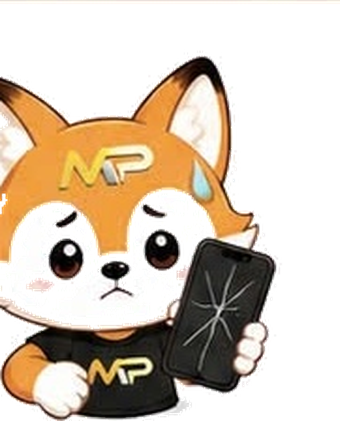
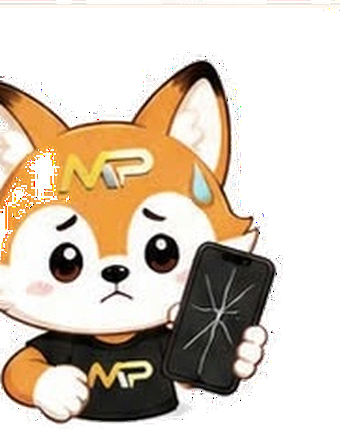
Bộ dáng đi 2 chiều thật + sửa lỗi mặt trong suốt ở 3 biểu cảm
- Thay 4 khung đi bộ dùng chung (lật ảnh giả) bằng 12 khung thật:
  6 khung đi trái (walk-left-1..6) + 6 khung đi phải (walk-right-1..6)
  cắt từ sprite sheet mới bro gửi. Bỏ hẳn cơ chế scaleX lật ảnh,
  giờ dùng đúng bộ khung theo hướng di chuyển thực tế.
- Sửa lỗi vui-ve.png, may-loi.png, san-sang-ho-tro.png bị thủng mặt
  (trong suốt thay vì trắng) do bước xoá nền trước đây rò rỉ qua khe
  hở nét vẽ — vá lại vùng bị lủng bằng màu trắng đúng vị trí.

diff --git a/index.html b/index.html
@@ -3043,20 +3043,29 @@
         'assets/mascot/may-loi.png',
         'assets/mascot/san-sang-ho-tro.png'
       ];
-      var WALK_FRAMES = [
-        'assets/mascot/walk/walk-1.png',
-        'assets/mascot/walk/walk-2.png',
-        'assets/mascot/walk/walk-3.png',
-        'assets/mascot/walk/walk-4.png'
+      var WALK_FRAMES_RIGHT = [
+        'assets/mascot/walk/walk-right-1.png',
+        'assets/mascot/walk/walk-right-2.png',
+        'assets/mascot/walk/walk-right-3.png',
+        'assets/mascot/walk/walk-right-4.png',
+        'assets/mascot/walk/walk-right-5.png',
+        'assets/mascot/walk/walk-right-6.png'
+      ];
+      var WALK_FRAMES_LEFT = [
+        'assets/mascot/walk/walk-left-1.png',
+        'assets/mascot/walk/walk-left-2.png',
+        'assets/mascot/walk/walk-left-3.png',
+        'assets/mascot/walk/walk-left-4.png',
+        'assets/mascot/walk/walk-left-5.png',
+        'assets/mascot/walk/walk-left-6.png'
       ];
 
-      // ---- Look-at-cursor tilt (combined with walking facing-direction flip) ----
+      // ---- Look-at-cursor tilt ----
       var maxTilt = 14;
-      var facing = 1;
       var lastRotate = 0, lastLean = 0;
       function applyTiltTransform() {
         tilt.style.transform =
-          'scaleX(' + facing + ') translateX(' + lastLean.toFixed(1) + 'px) rotate(' + lastRotate.toFixed(1) + 'deg)';
+          'translateX(' + lastLean.toFixed(1) + 'px) rotate(' + lastRotate.toFixed(1) + 'deg)';
       }
       document.addEventListener('mousemove', function (e) {
         var rect = tilt.getBoundingClientRect();
@@ -3105,15 +3114,16 @@
 
       // ---- Walk-cycle sprite animation (real leg frames while moving) ----
       var walkFrameTimer = null;
-      function startWalkAnim() {
+      function startWalkAnim(direction) {
         isWalking = true;
         img.style.opacity = 1;
+        var frames = direction === 'left' ? WALK_FRAMES_LEFT : WALK_FRAMES_RIGHT;
         var i = 0;
         clearInterval(walkFrameTimer);
         walkFrameTimer = setInterval(function () {
-          img.src = WALK_FRAMES[i % WALK_FRAMES.length];
+          img.src = frames[i % frames.length];
           i++;
-        }, 150);
+        }, 130);
       }
       function stopWalkAnim() {
         clearInterval(walkFrameTimer);
@@ -3156,11 +3166,9 @@
         var ty = b.minY + Math.random() * (b.maxY - b.minY);
         var dist = Math.sqrt(Math.pow(tx - p.x, 2) + Math.pow(ty - p.y, 2));
         var duration = Math.max(1.4, dist / 65);
-        // walk sprites face left natively: no-flip = moving left, flip = moving right
-        facing = tx < p.x ? 1 : -1;
-        applyTiltTransform();
+        var direction = tx < p.x ? 'left' : 'right';
         btn.classList.add('is-walking');
-        startWalkAnim();
+        startWalkAnim(direction);
         place(tx, ty, duration);
         setTimeout(function () {
           btn.classList.remove('is-walking');
